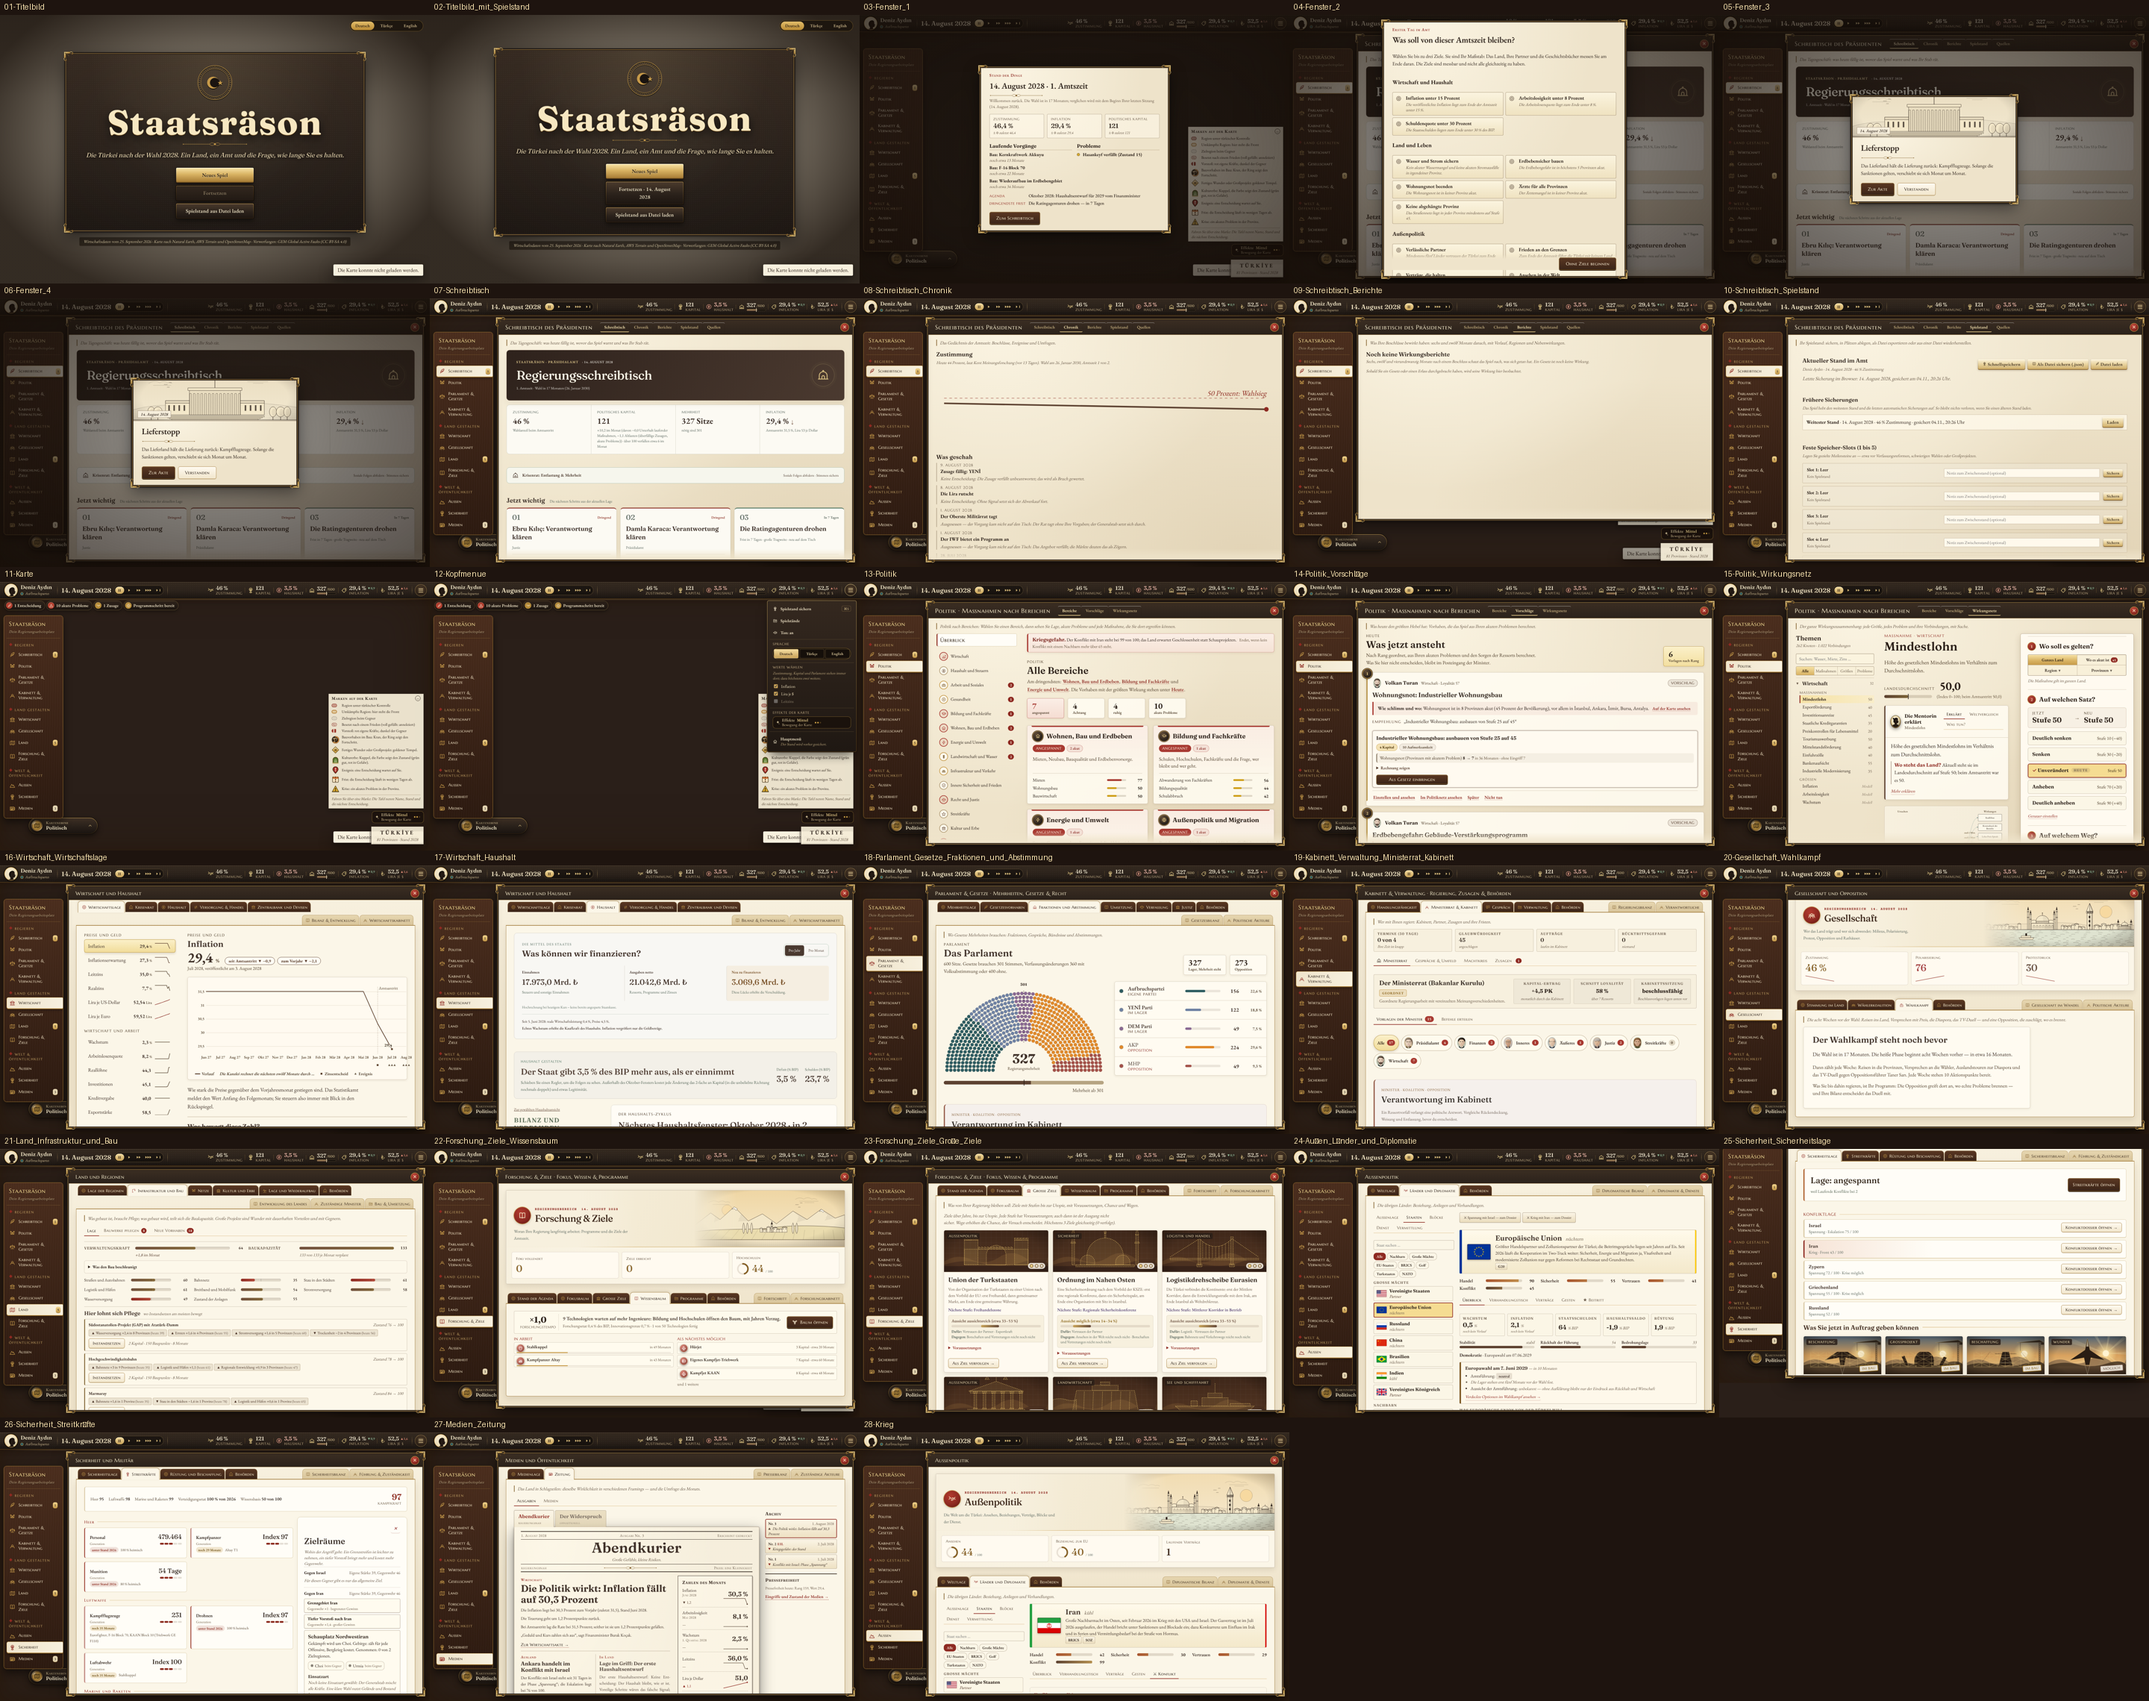
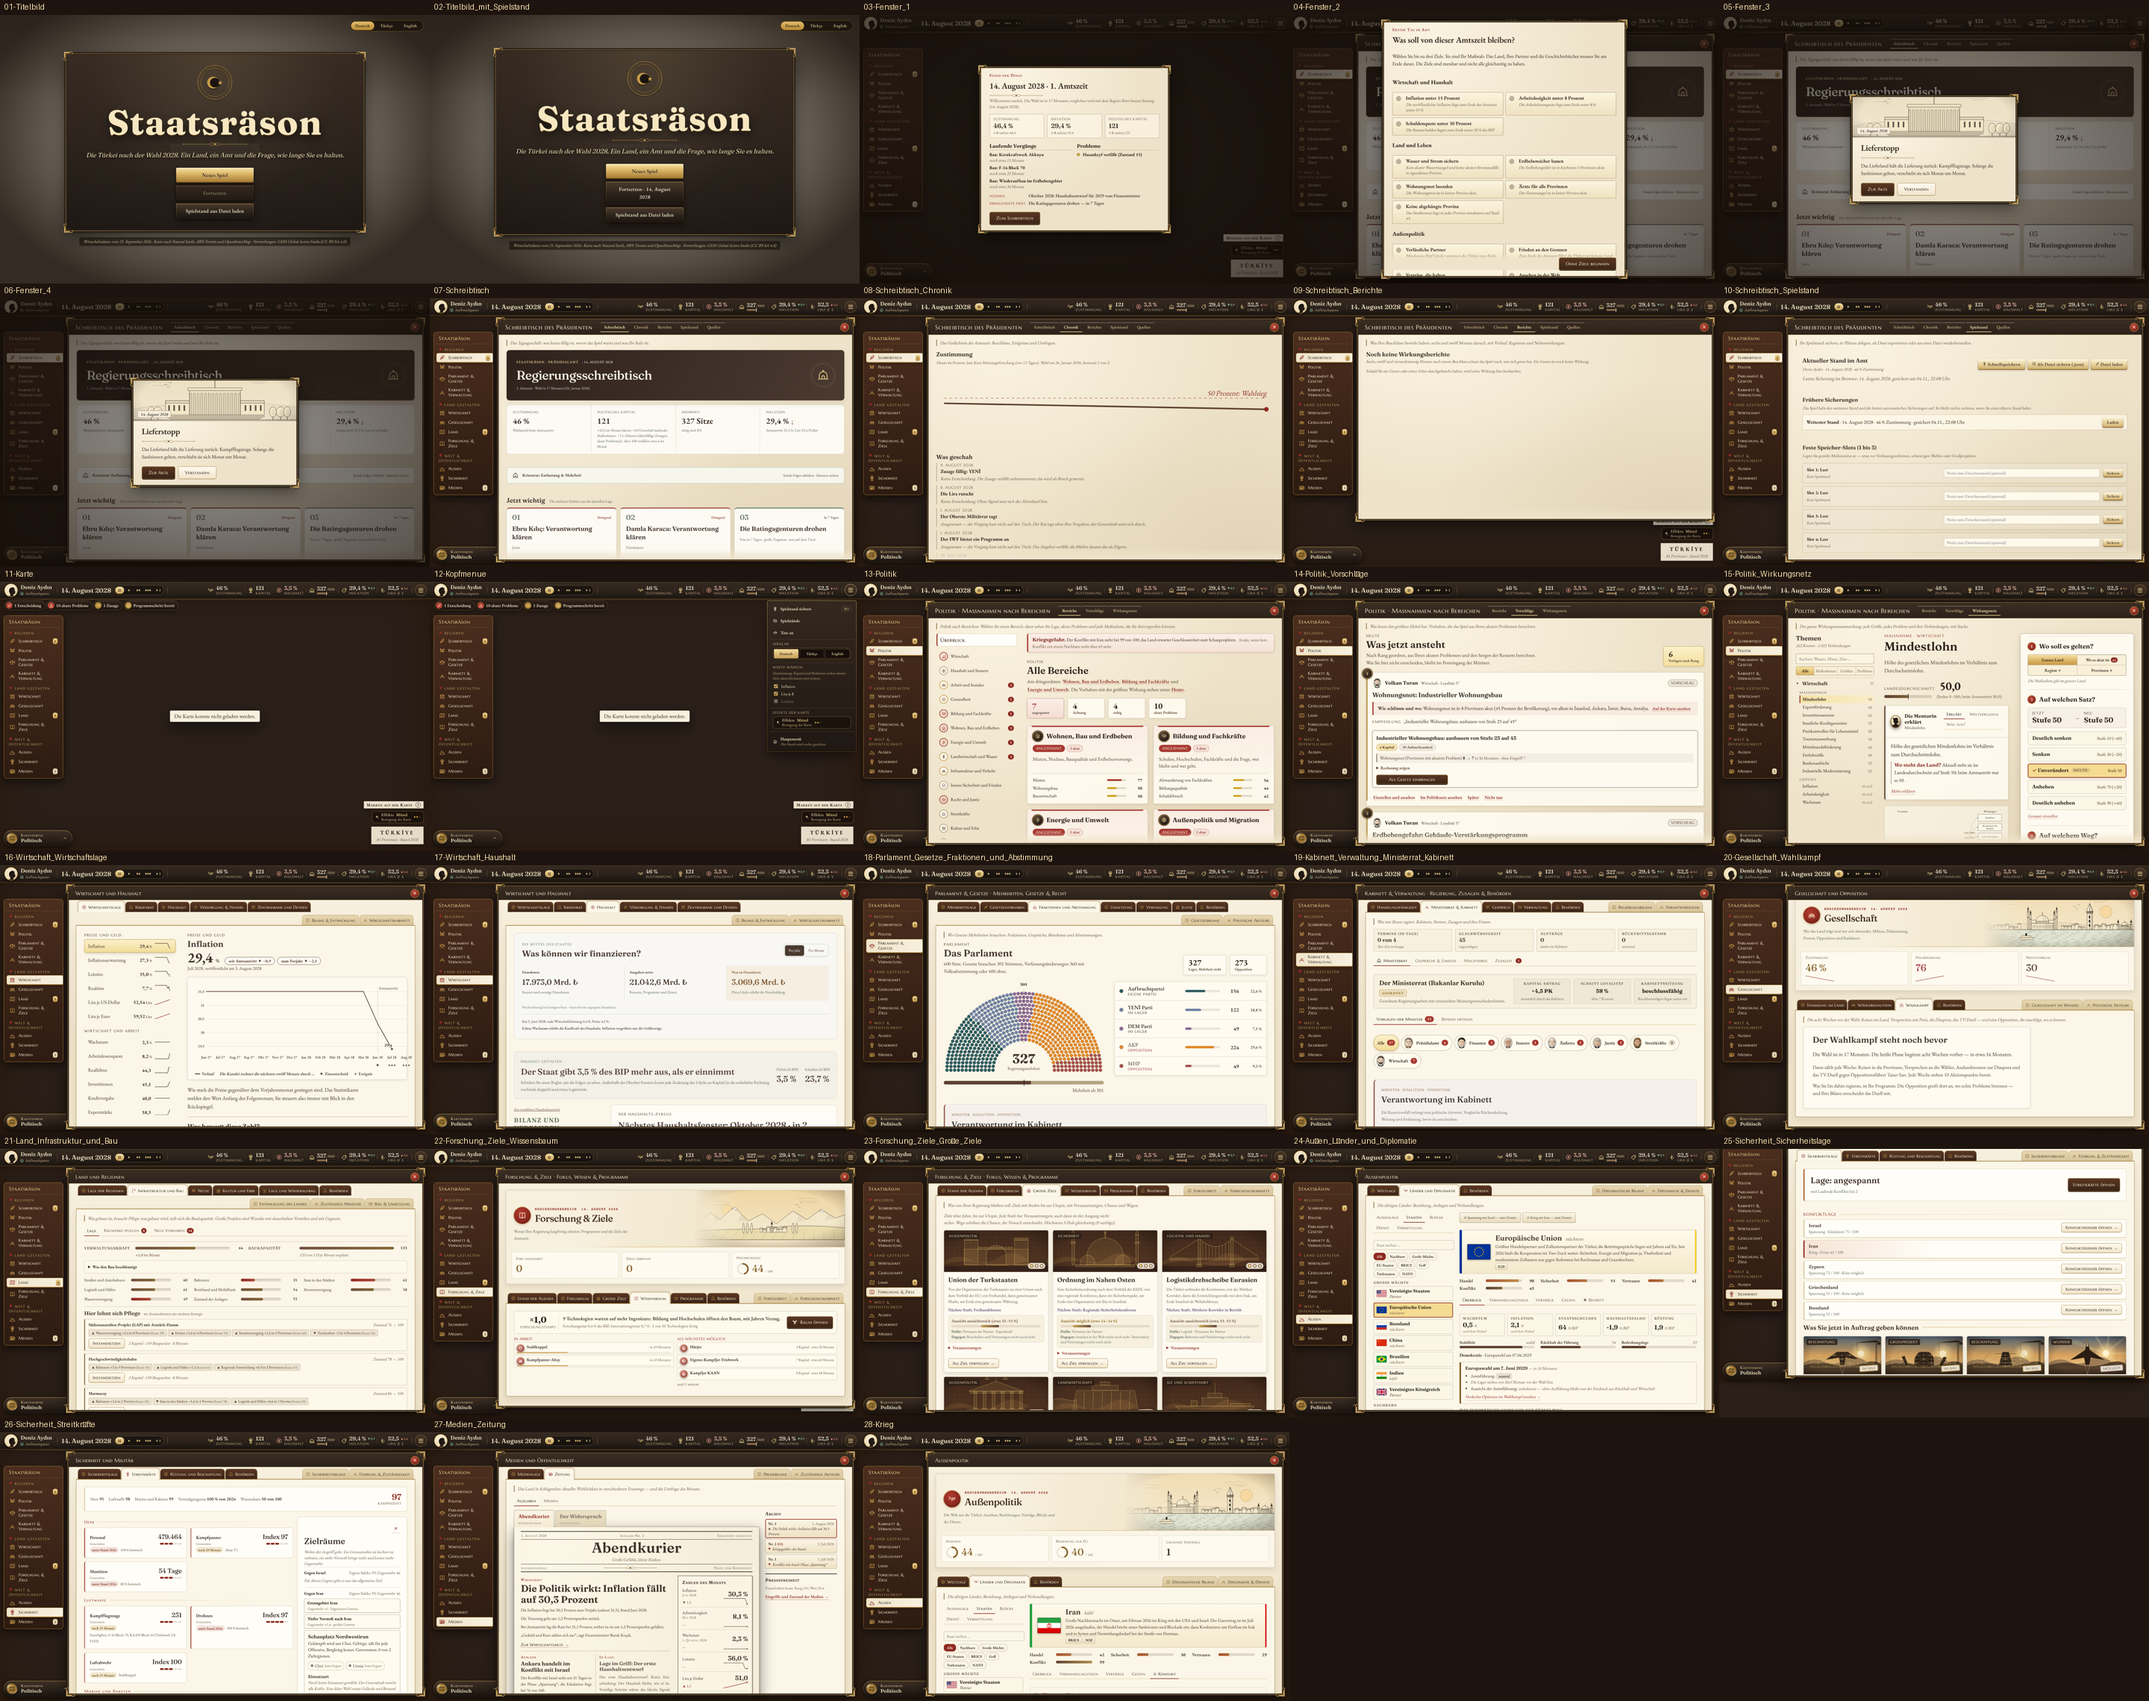
Karte im Gesamtbild: Legende zu bis zum Öffnen, Kartenebene mit festem Platz, Leiste ohne Scrollen bei sechs Bildschirmgrößen
- Geprüft an der echten Karte mit Software-Grafik (e2e/karte-mit-grafik.mjs) und bei 1024×768 bis 1920×1080 (e2e/leiste-hoehen.mjs)
- Fehlermeldung der Karte in der Mitte statt unter der Kartusche

Claude-Session: https://claude.ai/code/session_015tmx9syU1rT4V5iV7G2WLd

diff --git a/game/src/ui/navigation/navigation.css b/game/src/ui/navigation/navigation.css
@@ -35,3 +35,19 @@
 .rn-zahlen b{background:linear-gradient(180deg,#f1d58f,#c69a4a);color:#2a1f18;box-shadow:0 1px 0 #7c5823}
 .stage .rn-schalter{font-family:var(--kapitaelchen)}
 @media(min-width:721px) and (max-width:1100px){.stage .dossier-menu.regierungs-navigation button.on{margin-right:0;width:100%}.stage .dossier-menu.regierungs-navigation .menu-kurz{font-size:11.5px}}
+
+/* Platz für die Kartenebene unter der Leiste (Gesamtbild vom 4. November: bei 800 px Höhe lag der Knopf hinter der Leiste) */
+@media(min-width:721px){.stage .dossier-menu.regierungs-navigation{max-height:calc(100dvh - 196px)}.stage .linsen{left:12px;bottom:14px}}
+/* Niedrige Bildschirme: Die Leiste wird dichter, damit alle elf Bereiche ohne Scrollen sichtbar bleiben */
+@media(min-width:721px) and (max-height:900px){
+  .stage .regierungs-navigation .rn-marke{padding:2px 8px 8px;font-size:18px}.stage .regierungs-navigation .rn-marke small{display:none}
+  .stage .regierungs-navigation h3{margin:9px 8px 3px}
+  .stage .dossier-menu.regierungs-navigation button{min-height:31px;padding:4px 8px}
+  .stage .dossier-menu.regierungs-navigation{padding-top:9px;padding-bottom:7px}
+}
+@media(min-width:721px) and (max-width:1100px) and (max-height:900px){
+  .stage .dossier-menu.regierungs-navigation button{min-height:34px;padding:2px 3px;gap:2px;margin:0}
+  .stage .dossier-menu.regierungs-navigation button svg{width:17px;height:17px}
+  .stage .dossier-menu.regierungs-navigation .menu-kurz{font-size:10.5px;line-height:1.15}
+  .stage .regierungs-navigation h3{margin:5px 2px 2px;font-size:8px}
+}

diff --git a/game/src/ui/styles.css b/game/src/ui/styles.css
@@ -289,10 +289,13 @@ button.link { border: none !important; background: none !important; box-shadow: 
 }
 .atlas-label::before { content: ""; display: inline-block; width: 5px; height: 5px; border: 1.6px solid #24180f; border-radius: 50%; margin-right: 4px; vertical-align: middle; background: #f1e6cc; }
 .atlas-label.selected { font-weight: 800; }
+
 .atlas-loading, .atlas-hover {
   position: absolute; right: 22px; bottom: 26px; padding: 6px 14px; border-radius: 4px; z-index: 3;
   background: var(--paper-light); font-family: var(--serif); font-size: 18px; color: var(--ink); box-shadow: var(--shadow);
 }
+/* Die Fehlermeldung der Karte steht in der Mitte, nicht auf der Kartusche */
+.atlas-loading { right: auto; bottom: auto; left: 50%; top: 50%; transform: translate(-50%, -50%); }
 
 /* ---------------------------------------------------------------------- */
 /* Schreibtisch */

diff --git a/game/src/ui/atlas/MarkenLegende.tsx b/game/src/ui/atlas/MarkenLegende.tsx
@@ -11,7 +11,9 @@ const SCHLUESSEL = "staatsraeson-markenlegende";
 
 function lesen(): boolean {
   try {
-    return localStorage.getItem(SCHLUESSEL) !== "zu";
+    // Zu, bis man sie öffnet: Offen verdeckte die Legende den Osten mit der Front (Gesamtbild vom 4. November). Ohne Speicher
+    // (Vorschau, Server) bleibt sie offen, damit die Marken erklärt sind.
+    return localStorage.getItem(SCHLUESSEL) === "offen";
   } catch {
     return true;
   }

diff --git a/GESTALTUNG_2026-11-04.md b/GESTALTUNG_2026-11-04.md
@@ -104,4 +104,10 @@ Anlass: Der Projektinhaber sah ein Spiel, das wirkt, als hätten mehrere Leute i
 - **Farben:** mittlere Grüntöne auf ein Signalgrün, mittlere Blautöne auf Tinte; Rundungen auf 4, 6 und 10 px.
 - **Fehler aus dem Gesamtbild:** Die Zielwahl am ersten Amtstag lag hinter dem Schreibtisch und war nicht bedienbar; Fenster liegen jetzt immer über Akten und Leiste.
 
-**Noch offen:** Kartenleisten und Kartenmarken (die meisten verbleibenden Knopfbilder), die Zeitung als eigenes Druckbild bewusst ausgenommen, Parteifarben im Halbrund bleiben.
+**Dritte Runde: die Karte (4. November):** geprüft an der echten Karte mit Software-Grafik (`game/e2e/karte-mit-grafik.mjs`) und bei sechs Bildschirmgrößen (`game/e2e/leiste-hoehen.mjs`).
+- Die Legende „Marken auf der Karte“ ist zu, bis man sie öffnet (die Wahl wird gemerkt); offen verdeckte sie den Osten mit der Front.
+- Der Knopf „Kartenebene“ hat einen festen Platz unter der Leiste; bei 800 px Höhe lag er dahinter.
+- Die Leiste wird bei niedrigen Bildschirmen dichter: Bei 1024×768 bis 1920×1080 sind alle elf Bereiche ohne Scrollen sichtbar.
+- Die Meldung „Die Karte konnte nicht geladen werden“ steht in der Mitte statt unter der Kartusche.
+
+**Noch offen:** Kartenmarken (die meisten verbleibenden Knopfbilder), die Zeitung als eigenes Druckbild bewusst ausgenommen, Parteifarben im Halbrund bleiben.
